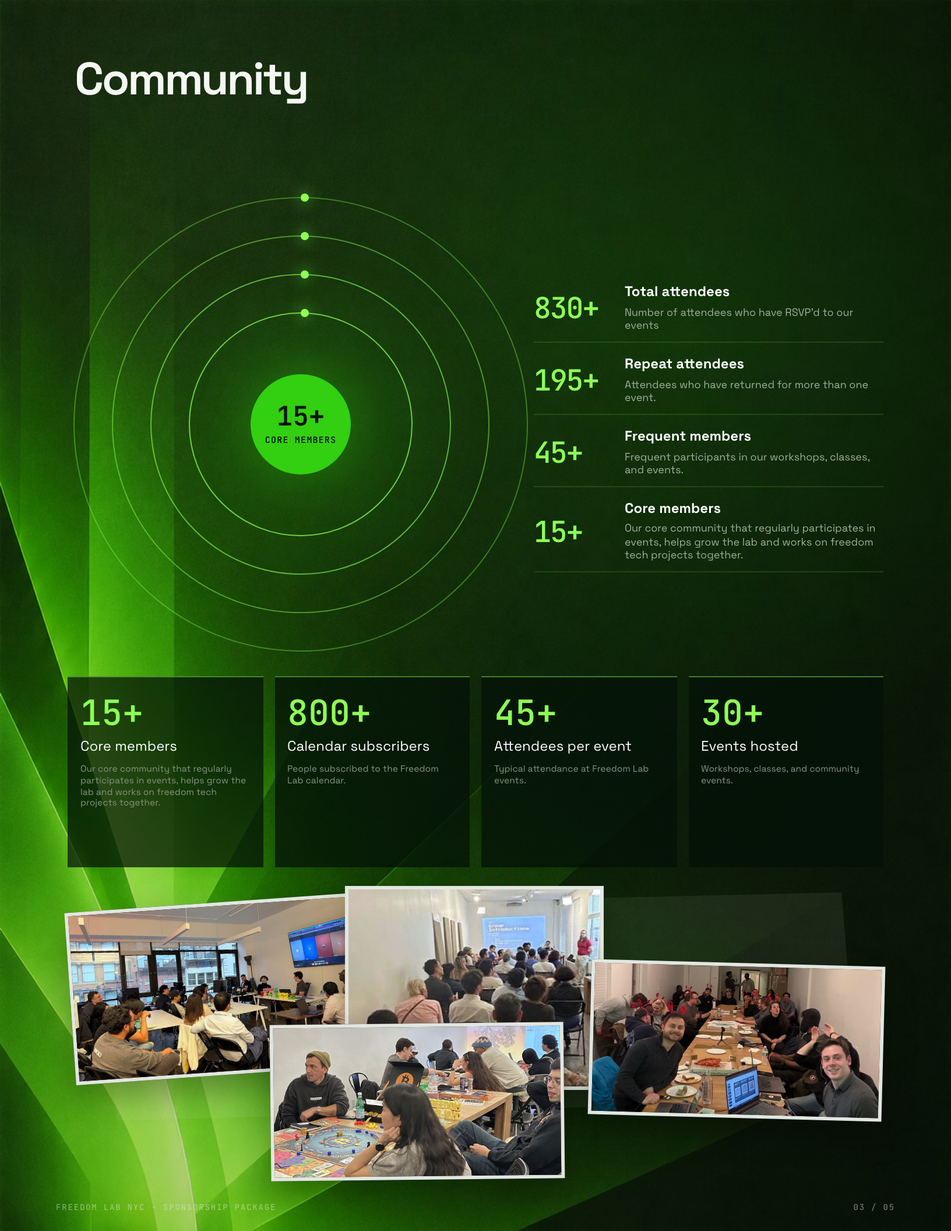
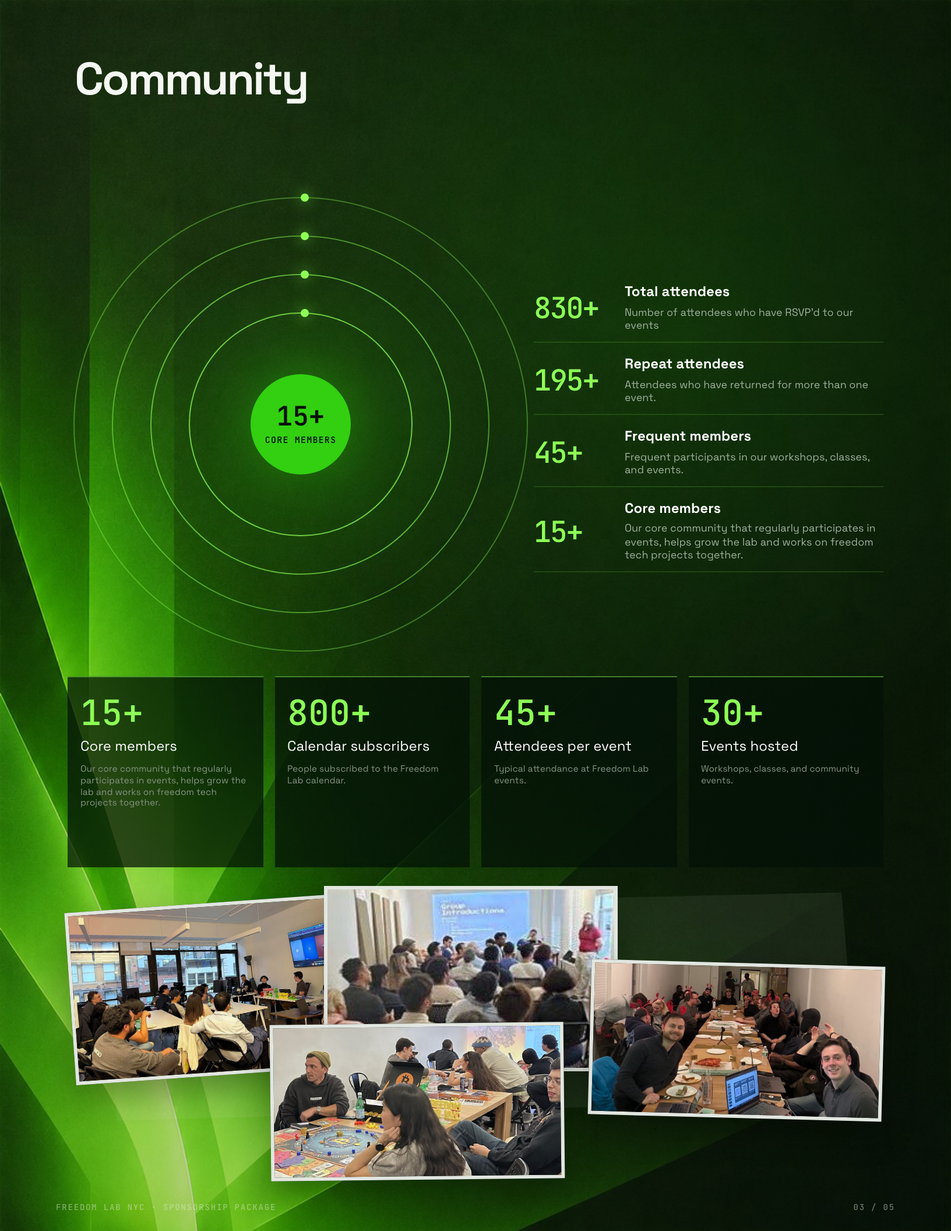
refine community audience photo crop

Changed region(s): [[0.3125, 0.7188, 0.6562, 0.9062]]

diff --git a/src/concepts/concepts.css b/src/concepts/concepts.css
@@ -126,7 +126,7 @@ img{display:block;max-width:100%}
 .option-signal-rings .momentum-page .momentum-main{grid-template-columns:400px 1fr}.option-signal-rings .momentum-page .ring-system{width:400px}.option-signal-rings .momentum-page .ring-legend{gap:5px}.option-signal-rings .momentum-page .ring-legend li{grid-template-columns:68px 1fr;gap:10px;padding:7px 0}.option-signal-rings .momentum-page .ring-number{font-size:25px}.option-signal-rings .momentum-page .ring-legend strong{font-size:12px;line-height:1.15}.option-signal-rings .momentum-page .ring-legend small{margin-top:5px;font-size:9px;line-height:1.28}.option-signal-rings .momentum-page .ring-core strong{font-size:23px}.option-signal-rings .momentum-page .ring-core span{font-size:7.5px}
 
 .option-signal-rings .momentum-page .legacy-stats{top:580px;height:164px}.option-signal-rings .momentum-page .legacy-stats article{padding:15px 11px}.option-signal-rings .momentum-page .legacy-stats strong{font-size:30px}.option-signal-rings .momentum-page .legacy-stats span{font-size:12px;line-height:1.15}.option-signal-rings .momentum-page .legacy-stats small{margin-top:7px;font-size:7.8px;line-height:1.27}.option-signal-rings .momentum-page .community-strip{top:760px;height:202px;isolation:isolate}.option-signal-rings .momentum-page .community-strip::before{content:"";position:absolute;z-index:-1;inset:8px 22px 3px;background:rgba(226,239,219,.075);clip-path:polygon(1% 5%,98% 0,100% 93%,3% 100%);transform:rotate(-.45deg)}.option-signal-rings .momentum-page .community-strip figure{position:absolute;overflow:visible;border:3px solid rgba(244,247,242,.92);background:#102216;box-shadow:0 12px 28px rgba(0,0,0,.32)}.option-signal-rings .momentum-page .community-strip figure::before{content:"";position:absolute;z-index:3;top:-10px;left:50%;width:54px;height:16px;background:rgba(218,238,207,.84);box-shadow:0 1px 3px rgba(0,0,0,.16);transform:translateX(-50%) rotate(-3deg)}.option-signal-rings .momentum-page .community-strip figure:nth-child(2)::before{left:auto;right:16px;transform:rotate(4deg)}.option-signal-rings .momentum-page .community-strip figure:nth-child(3)::before{left:18px;transform:rotate(-5deg)}.option-signal-rings .momentum-page .community-strip figure:nth-child(4)::before{left:62%;transform:translateX(-50%) rotate(2deg)}
-.option-signal-rings .momentum-page .collage-panorama figure::before{display:none}.option-signal-rings .momentum-page .collage-panorama figure:nth-child(1){z-index:1;left:2px;top:14px;width:262px;height:148px;transform:rotate(-4deg)}.option-signal-rings .momentum-page .collage-panorama figure:nth-child(2){z-index:3;left:238px;top:0;width:222px;height:175px;transform:rotate(0deg)}.option-signal-rings .momentum-page .collage-panorama figure:nth-child(3){z-index:5;left:174px;top:118px;width:252px;height:134px;transform:rotate(-.6deg)}.option-signal-rings .momentum-page .collage-panorama figure:nth-child(4){z-index:4;right:0;top:66px;width:252px;height:133px;transform:rotate(1.5deg)}
+.option-signal-rings .momentum-page .collage-panorama figure::before{display:none}.option-signal-rings .momentum-page .collage-panorama figure:nth-child(1){z-index:1;left:2px;top:14px;width:262px;height:148px;transform:rotate(-4deg)}.option-signal-rings .momentum-page .collage-panorama figure:nth-child(2){z-index:3;left:220px;top:0;width:252px;height:159px;transform:rotate(0deg)}.option-signal-rings .momentum-page .collage-panorama figure:nth-child(3){z-index:5;left:174px;top:118px;width:252px;height:134px;transform:rotate(-.6deg)}.option-signal-rings .momentum-page .collage-panorama figure:nth-child(4){z-index:4;right:0;top:66px;width:252px;height:133px;transform:rotate(1.5deg)}
 .option-signal-rings .momentum-page .collage-spotlight figure:nth-child(1){z-index:3;left:193px;top:4px;width:330px;height:176px;transform:rotate(-.4deg)}.option-signal-rings .momentum-page .collage-spotlight figure:nth-child(2){z-index:1;left:0;top:20px;width:251px;height:143px;transform:rotate(-2deg)}.option-signal-rings .momentum-page .collage-spotlight figure:nth-child(3){z-index:2;right:0;top:8px;width:244px;height:139px;transform:rotate(1.8deg)}.option-signal-rings .momentum-page .collage-spotlight figure:nth-child(4){z-index:4;right:98px;bottom:0;width:276px;height:108px;transform:rotate(.9deg)}
 .option-signal-rings .momentum-page .collage-staggered figure:nth-child(1){z-index:1;left:8px;top:4px;width:306px;height:133px;transform:rotate(-1.1deg)}.option-signal-rings .momentum-page .collage-staggered figure:nth-child(2){z-index:3;right:4px;top:0;width:319px;height:135px;transform:rotate(.8deg)}.option-signal-rings .momentum-page .collage-staggered figure:nth-child(3){z-index:2;left:114px;bottom:0;width:281px;height:109px;transform:rotate(-.7deg)}.option-signal-rings .momentum-page .collage-staggered figure:nth-child(4){z-index:4;right:8px;bottom:1px;width:279px;height:112px;transform:rotate(1.2deg)}
 .option-signal-rings .momentum-page .collage-panorama img,.option-signal-rings .momentum-page .collage-spotlight img,.option-signal-rings .momentum-page .collage-staggered img{width:100%;height:100%;object-fit:cover}.option-signal-rings .momentum-page .community-strip figure:nth-child(1) img{object-position:52% 56%}.option-signal-rings .momentum-page .community-strip figure:nth-child(2) img{object-position:52% 36%}.option-signal-rings .momentum-page .community-strip figure:nth-child(3) img{object-position:54% 46%}.option-signal-rings .momentum-page .community-strip figure:nth-child(4) img{object-position:50% 42%}
